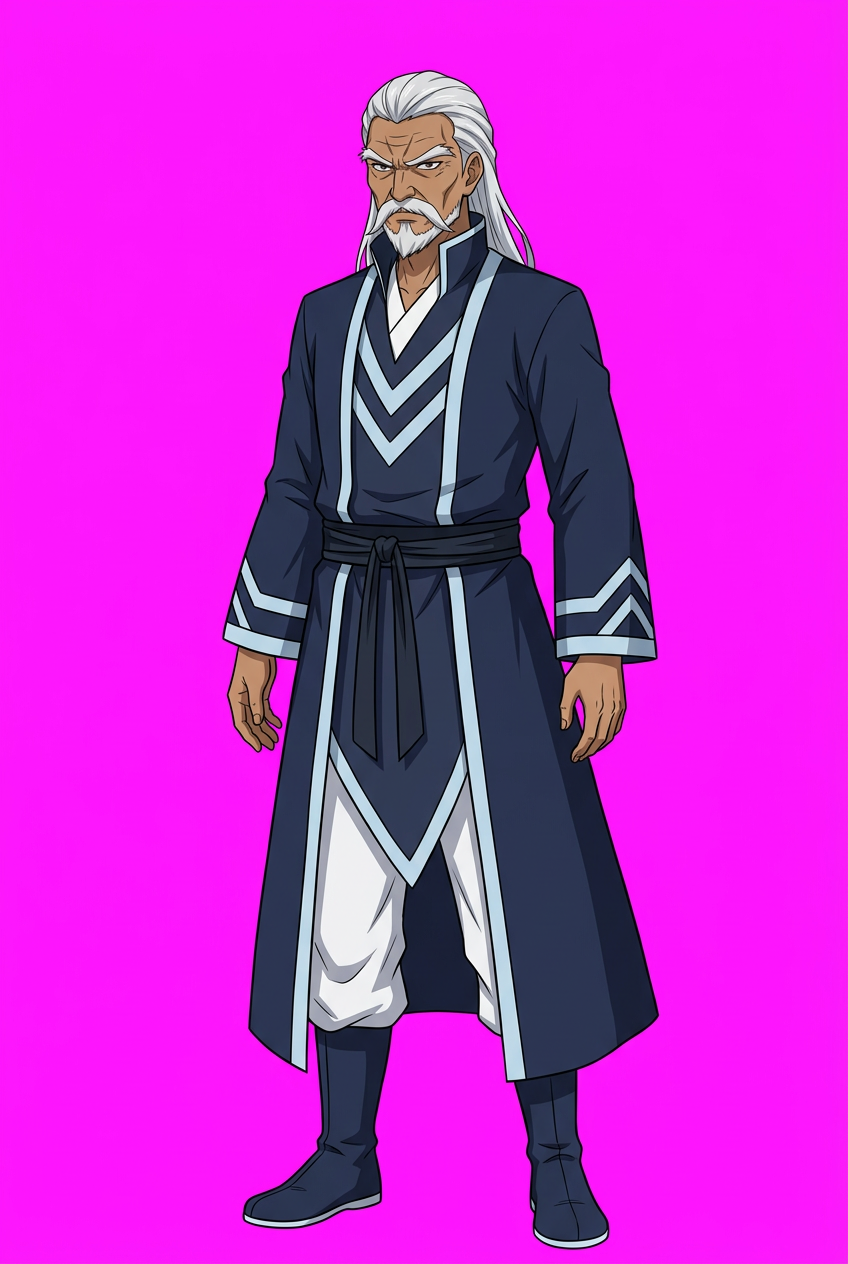
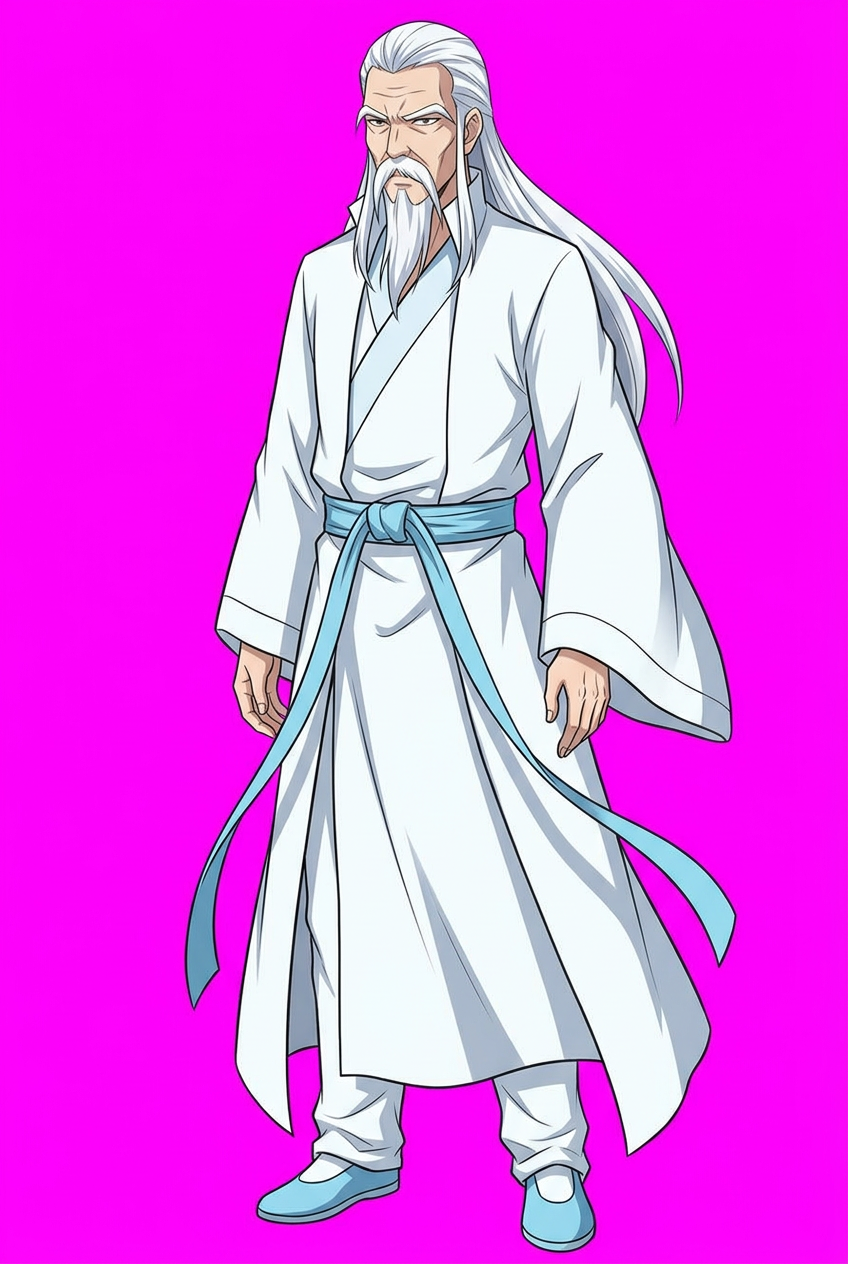
recheck ch1: 葛叶 redrawn from manhua ch1-2; refs 萧战/纳兰/药老/薰儿

diff --git a/dev/design/漫画复核进度.md b/dev/design/漫画复核进度.md
@@ -6,3 +6,9 @@
 | 萧厉 | xiaoli | 40-41（石漠城） | ✅ 一致（白头带、青蓝刺猬头、白无袖交领+金项圈）。191话红发造型为后期，届时核对 |
 | 萧鼎 | xiaoding | 41 | ❌→已重画（青蓝蓬松长发、金耳环、墨绿围巾、白斗篷） |
 | 青莲地心火 | fire_lotus | 43-20/21 | 参考已存，待重画 |
+| 萧战 | xiaozhan | 1-2 | ✅ 基本一致（圆眼镜、灰卷发、大念珠）；漫画第1话穿黑袍，现图灰蓝袍——可接受，最终再议 |
+| 葛叶 | geye | 1-2 | ❌→已重画（白皙、白长发、白长须、白袍浅蓝腰带） |
+| 药老 | yaolao | 2 | ✅ 一致（白长发、白/浅色长袍） |
+| 薰儿（第1章） | xuner | 1 | ✅ 一致（黑长发、白蓝裙、金靴），用户已认可 |
+| 萧炎（第1章） | xiaoyan | 1 | 用户已认可；漫画第1话为橙色上衣，章节换装时按漫画做 |
+| 纳兰嫣然 | nalan | 1-2（粉双马尾、白衬衫红裙） | ⏳ Boss 按第2章三年之约那一话核对 |
